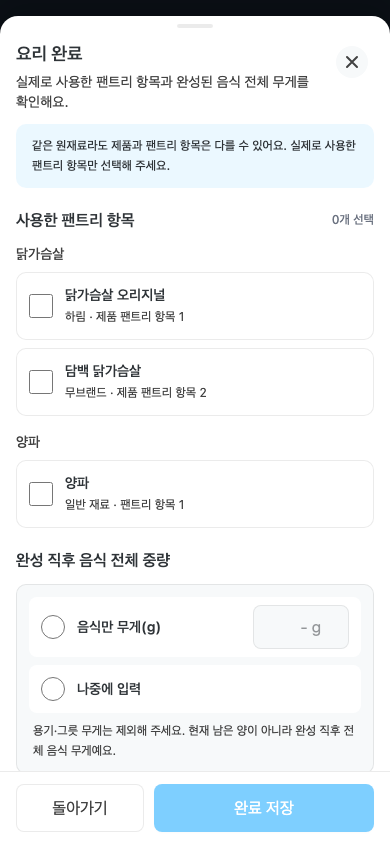
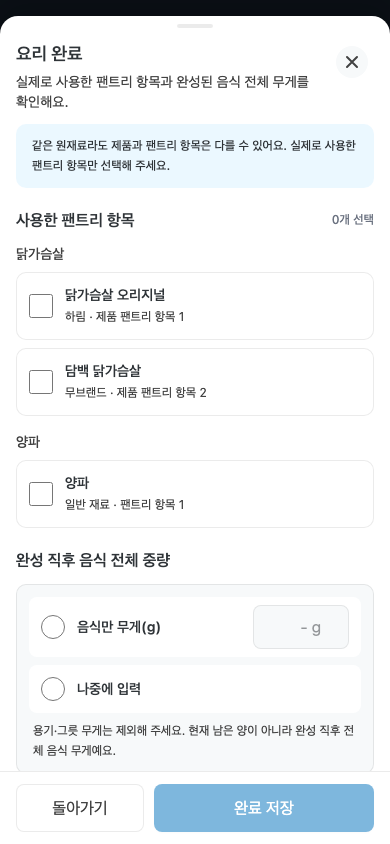
docs(cooking): preserve reproducible contrast evidence
Regenerate the canonical COOK_MODE runtime screenshots from the exact contrast-repair source and bind the retained Markdown and JSON evidence to the resulting bytes. Three clean-server Playwright runs independently reproduce the same desktop, mobile, and narrow artifacts.

Constraint: Evidence generation is locked to source e662eaeafd4270245fb77259bb856a82bfd972ea and the five evidence-owned files.

Rejected: Reuse the pre-repair PNGs | the contrast repair changes rendered pixels and invalidates their retained hashes.

Confidence: high

Scope-risk: narrow

Reversibility: clean

Directive: Regenerate these PNGs only with server reuse disabled and re-lock both evidence documents to the actual blobs.

Tested: Exact Playwright grep 3x at 9 passed / 1 intended skip; relevant a11y 1 passed / 2 intended skip; relevant visual 1 passed / 2 intended skip; workpack and automation validators; JSON/hash/dimension and diff checks.

Not-tested: Physical iOS/Android devices, virtual keyboards, VoiceOver, TalkBack, or full WCAG conformance.

Changed region(s): [[0.3692, 0.9242, 0.9846, 0.9858]]

diff --git a/docs/workpacks/cooked-batch-weight-ledger/evidence/2026-08-09-stage4-frontend-implementation.md b/docs/workpacks/cooked-batch-weight-ledger/evidence/2026-08-09-stage4-frontend-implementation.md
@@ -28,18 +28,21 @@ The finished UI keeps initial pantry selection empty, allows explicit `[]`, expo
 
 | Evidence | Original size | SHA-256 |
 | --- | ---: | --- |
[6 lines of base64/hex data omitted]
 
 The runtime comparison is recorded in `design-qa.md`. It is an author-only implementation QA artifact, not final product-design authority. The Playwright assertions prove 44px controls, 16px horizontal spacing, focus trap/restore, synthetic keyboard Escape behavior, narrow internal scrolling, no horizontal overflow, zero console errors, and zero serious/critical axe violations for the #8 sheet. The PNG files themselves do not prove a physical keyboard, physical iOS Safari, screen-reader behavior, or full WCAG conformance.
 
-The canonical screenshot reproduction command below starts the default clean fixture server for each run. Three consecutive runs produced byte-identical SHA-256 values for all three files:
+The canonical screenshot reproduction command below disables server reuse, starts a clean fixture server for each run, and preserves every run separately. Three consecutive runs each produced `9 passed / 1 intended skip` and byte-identical SHA-256 values for all three files:
 
 ```bash
+EVIDENCE_TMP_DIR="$(mktemp -d /tmp/homecook-contrast-evidence.XXXXXX)"
 for run in 1 2 3; do
-  pnpm test:e2e:regression:ci --grep cooked-batch-weight-ledger
-  sha256sum ui/designs/evidence/cooked-batch-weight-ledger/COOK_MODE-implementation-{desktop-1280,mobile-default-390,mobile-narrow-320}.png
+  PLAYWRIGHT_REUSE_EXISTING_SERVER=0 pnpm test:e2e:regression:ci --grep cooked-batch-weight-ledger
+  mkdir -p "$EVIDENCE_TMP_DIR/run-$run"
+  cp ui/designs/evidence/cooked-batch-weight-ledger/COOK_MODE-implementation-{desktop-1280,mobile-default-390,mobile-narrow-320}.png "$EVIDENCE_TMP_DIR/run-$run/"
+  shasum -a 256 "$EVIDENCE_TMP_DIR/run-$run"/*.png
 done
 ```
 
